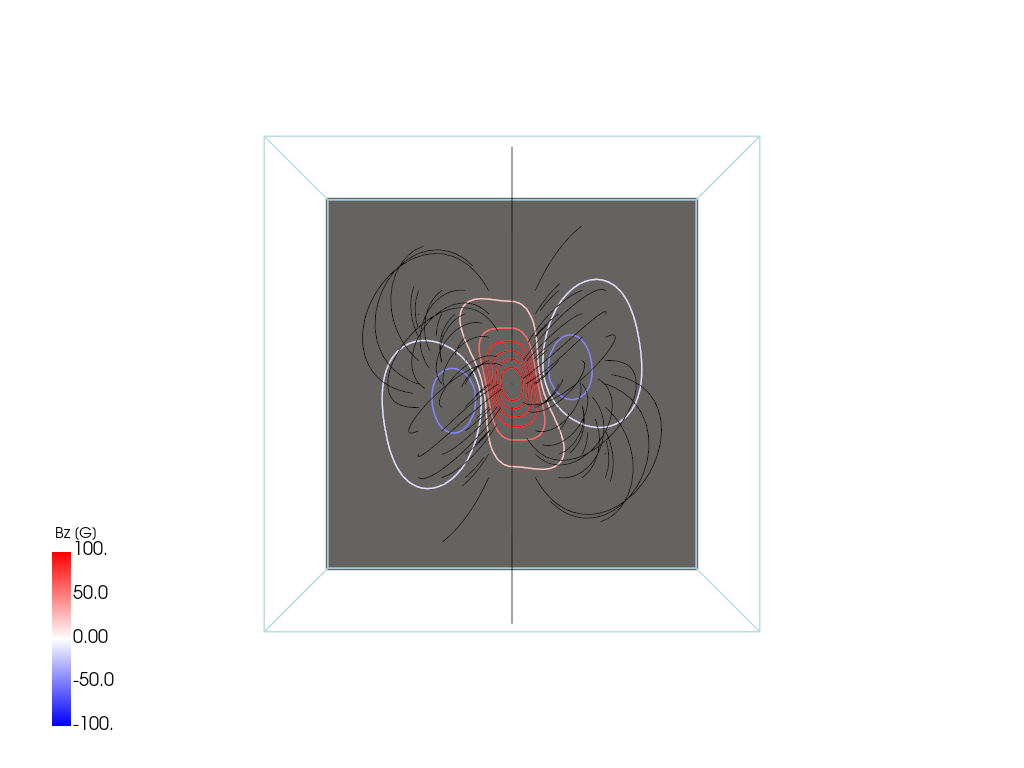
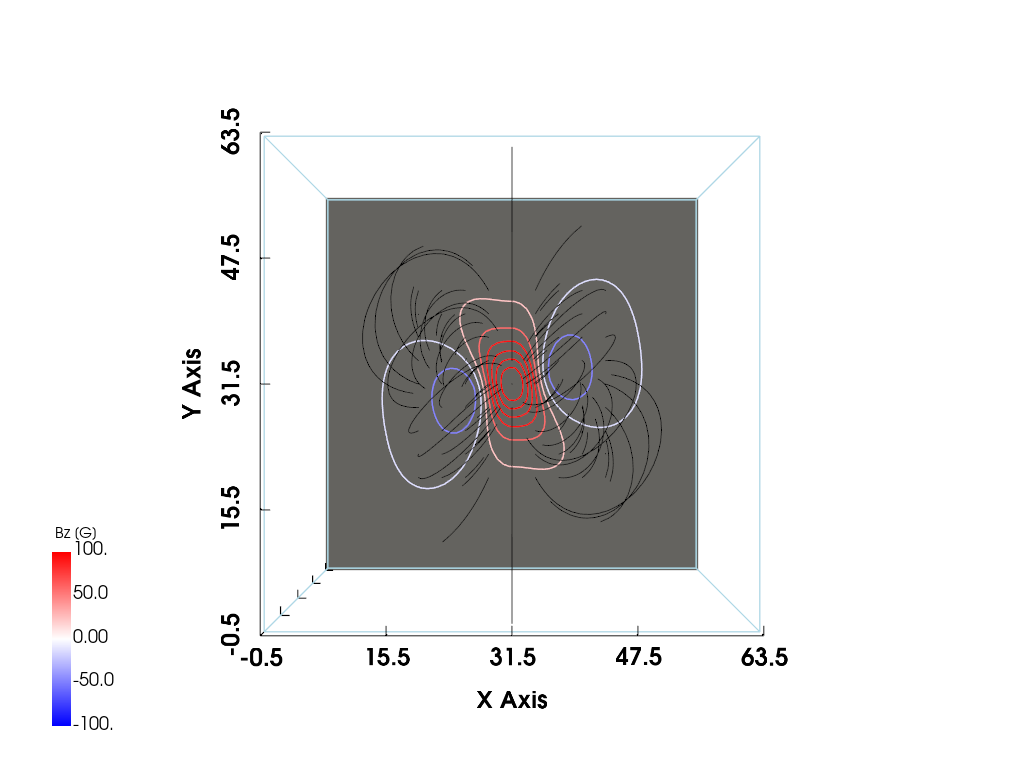
Built site for gh-pages

diff --git a/posts/low_lou_force_free/index.html b/posts/low_lou_force_free/index.html
@@ -433,12 +433,12 @@ P'(-1) = 10
 <div class="sourceCode" id="cb3"><pre class="sourceCode python code-with-copy"><code class="sourceCode python"><span id="cb3-1"><a href="#cb3-1" aria-hidden="true" tabindex="-1"></a>dP_init <span class="op">=</span> <span class="dv">10</span><span class="op">*</span>np.ones_like(mu)</span></code><button title="Copy to Clipboard" class="code-copy-button"><i class="bi"></i></button></pre></div>
 <p>Then, together,</p>
 <div class="sourceCode" id="cb4"><pre class="sourceCode python code-with-copy"><code class="sourceCode python"><span id="cb4-1"><a href="#cb4-1" aria-hidden="true" tabindex="-1"></a>S_init <span class="op">=</span> np.vstack([P_init, dP_init])</span></code><button title="Copy to Clipboard" class="code-copy-button"><i class="bi"></i></button></pre></div>
-<div id="cell-19" class="cell" data-vscode="{&quot;languageId&quot;:&quot;python&quot;}">
+<div id="cell-19" class="cell">
 <div class="sourceCode cell-code" id="cb5"><pre class="sourceCode python code-with-copy"><code class="sourceCode python"><span id="cb5-1"><a href="#cb5-1" aria-hidden="true" tabindex="-1"></a><span class="im">import</span> numpy <span class="im">as</span> np </span>
 <span id="cb5-2"><a href="#cb5-2" aria-hidden="true" tabindex="-1"></a><span class="im">from</span> scipy.integrate <span class="im">import</span> solve_bvp</span>
 <span id="cb5-3"><a href="#cb5-3" aria-hidden="true" tabindex="-1"></a><span class="im">import</span> matplotlib.pyplot <span class="im">as</span> plt </span></code><button title="Copy to Clipboard" class="code-copy-button"><i class="bi"></i></button></pre></div>
 </div>
-<div id="cell-20" class="cell" data-vscode="{&quot;languageId&quot;:&quot;python&quot;}">
+<div id="cell-20" class="cell">
 <div class="sourceCode cell-code" id="cb6"><pre class="sourceCode python code-with-copy"><code class="sourceCode python"><span id="cb6-1"><a href="#cb6-1" aria-hidden="true" tabindex="-1"></a><span class="kw">def</span> find_P_and_a2(n, m):</span>
 <span id="cb6-2"><a href="#cb6-2" aria-hidden="true" tabindex="-1"></a></span>
 <span id="cb6-3"><a href="#cb6-3" aria-hidden="true" tabindex="-1"></a>    <span class="co"># ODE system</span></span>
@@ -511,7 +511,7 @@ P'(-1) = 10
 <span id="cb6-70"><a href="#cb6-70" aria-hidden="true" tabindex="-1"></a>    </span>
 <span id="cb6-71"><a href="#cb6-71" aria-hidden="true" tabindex="-1"></a>    <span class="cf">return</span> sol.sol, sol.p[<span class="dv">0</span>]</span></code><button title="Copy to Clipboard" class="code-copy-button"><i class="bi"></i></button></pre></div>
 </div>
-<div id="cell-21" class="cell" data-vscode="{&quot;languageId&quot;:&quot;python&quot;}">
+<div id="cell-21" class="cell">
 <div class="sourceCode cell-code" id="cb7"><pre class="sourceCode python code-with-copy"><code class="sourceCode python"><span id="cb7-1"><a href="#cb7-1" aria-hidden="true" tabindex="-1"></a>fig, ax <span class="op">=</span> plt.subplots(figsize<span class="op">=</span>(<span class="dv">8</span>, <span class="dv">6</span>))</span>
 <span id="cb7-2"><a href="#cb7-2" aria-hidden="true" tabindex="-1"></a>ax.grid(<span class="va">True</span>)</span>
 <span id="cb7-3"><a href="#cb7-3" aria-hidden="true" tabindex="-1"></a>ax.axhline(<span class="dv">0</span>, color<span class="op">=</span><span class="st">'k'</span>, lw<span class="op">=</span><span class="dv">2</span>)</span>
@@ -623,13 +623,13 @@ Q(A) = \sqrt{a^2 _{n,m}} A^{1 + \frac{1}{n}}
 <p><span class="math display">
 \alpha = \sqrt{a^2 _{n,m}} \left(1 + \frac{1}{n} \right) A^{\frac{1}{n}}
 </span></p>
-<div id="cell-29" class="cell" data-vscode="{&quot;languageId&quot;:&quot;python&quot;}">
+<div id="cell-29" class="cell">
 <div class="sourceCode cell-code" id="cb8"><pre class="sourceCode python code-with-copy"><code class="sourceCode python"><span id="cb8-1"><a href="#cb8-1" aria-hidden="true" tabindex="-1"></a><span class="im">import</span> pyvista <span class="im">as</span> pv</span>
 <span id="cb8-2"><a href="#cb8-2" aria-hidden="true" tabindex="-1"></a>pv.set_jupyter_backend(<span class="st">'static'</span>)</span>
 <span id="cb8-3"><a href="#cb8-3" aria-hidden="true" tabindex="-1"></a>pv.global_theme.notebook <span class="op">=</span> <span class="va">True</span></span>
 <span id="cb8-4"><a href="#cb8-4" aria-hidden="true" tabindex="-1"></a>pv.start_xvfb()</span></code><button title="Copy to Clipboard" class="code-copy-button"><i class="bi"></i></button></pre></div>
 </div>
-<div id="cell-30" class="cell" data-vscode="{&quot;languageId&quot;:&quot;python&quot;}">
+<div id="cell-30" class="cell">
 <div class="sourceCode cell-code" id="cb9"><pre class="sourceCode python code-with-copy"><code class="sourceCode python"><span id="cb9-1"><a href="#cb9-1" aria-hidden="true" tabindex="-1"></a><span class="kw">class</span> LowLouMag:</span>
 <span id="cb9-2"><a href="#cb9-2" aria-hidden="true" tabindex="-1"></a>    <span class="co">"A Low and Lou (1990) NLFFF"</span></span>
 <span id="cb9-3"><a href="#cb9-3" aria-hidden="true" tabindex="-1"></a></span>
@@ -785,7 +785,7 @@ Q(A) = \sqrt{a^2 _{n,m}} A^{1 + \frac{1}{n}}
 <span id="cb9-153"><a href="#cb9-153" aria-hidden="true" tabindex="-1"></a>        bx, by, bz <span class="op">=</span> <span class="va">self</span>.calculate_final_magnetic_fields()</span>
 <span id="cb9-154"><a href="#cb9-154" aria-hidden="true" tabindex="-1"></a>        <span class="cf">return</span> bx, by, bz</span></code><button title="Copy to Clipboard" class="code-copy-button"><i class="bi"></i></button></pre></div>
 </div>
-<div id="cell-31" class="cell" data-vscode="{&quot;languageId&quot;:&quot;python&quot;}">
+<div id="cell-31" class="cell">
 <div class="sourceCode cell-code" id="cb10"><pre class="sourceCode python code-with-copy"><code class="sourceCode python"><span id="cb10-1"><a href="#cb10-1" aria-hidden="true" tabindex="-1"></a>b <span class="op">=</span> LowLouMag()</span>
 <span id="cb10-2"><a href="#cb10-2" aria-hidden="true" tabindex="-1"></a>b</span></code><button title="Copy to Clipboard" class="code-copy-button"><i class="bi"></i></button></pre></div>
 <section id="low-and-lou-1990-nlfff" class="level3 cell-output cell-output-display cell-output-markdown">
@@ -793,7 +793,7 @@ Q(A) = \sqrt{a^2 _{n,m}} A^{1 + \frac{1}{n}}
 <p>bounds = [-1, 1, -1, 1, 0, 2]<br> resolutions = [64, 64, 64]<br> n = 1<br> m = 1<br> l = 0.3<br> Phi = 0.5π<br></p>
 </section>
 </div>
-<div id="cell-32" class="cell" data-vscode="{&quot;languageId&quot;:&quot;python&quot;}">
+<div id="cell-32" class="cell">
 <div class="sourceCode cell-code" id="cb11"><pre class="sourceCode python code-with-copy"><code class="sourceCode python"><span id="cb11-1"><a href="#cb11-1" aria-hidden="true" tabindex="-1"></a>b.create_physical_coordinates()</span></code><button title="Copy to Clipboard" class="code-copy-button"><i class="bi"></i></button></pre></div>
 <div class="cell-output cell-output-display">
 <div>
@@ -844,43 +844,43 @@ Q(A) = \sqrt{a^2 _{n,m}} A^{1 + \frac{1}{n}}
 </div>
 </div>
 </div>
-<div id="cell-33" class="cell" data-vscode="{&quot;languageId&quot;:&quot;python&quot;}">
+<div id="cell-33" class="cell">
 <div class="sourceCode cell-code" id="cb12"><pre class="sourceCode python code-with-copy"><code class="sourceCode python"><span id="cb12-1"><a href="#cb12-1" aria-hidden="true" tabindex="-1"></a>b.calculate_local_Cartesian_coordinates()</span></code><button title="Copy to Clipboard" class="code-copy-button"><i class="bi"></i></button></pre></div>
 </div>
-<div id="cell-34" class="cell" data-vscode="{&quot;languageId&quot;:&quot;python&quot;}">
+<div id="cell-34" class="cell">
 <div class="sourceCode cell-code" id="cb13"><pre class="sourceCode python code-with-copy"><code class="sourceCode python"><span id="cb13-1"><a href="#cb13-1" aria-hidden="true" tabindex="-1"></a>b.grid.x[<span class="dv">0</span>], b.grid.y[<span class="dv">0</span>], b.grid.z[<span class="dv">0</span>]</span></code><button title="Copy to Clipboard" class="code-copy-button"><i class="bi"></i></button></pre></div>
 <div class="cell-output cell-output-display">
 <pre><code>(-1.0, -1.0, 0.0)</code></pre>
 </div>
 </div>
-<div id="cell-35" class="cell" data-vscode="{&quot;languageId&quot;:&quot;python&quot;}">
+<div id="cell-35" class="cell">
 <div class="sourceCode cell-code" id="cb15"><pre class="sourceCode python code-with-copy"><code class="sourceCode python"><span id="cb15-1"><a href="#cb15-1" aria-hidden="true" tabindex="-1"></a>b.X[<span class="dv">0</span>], b.Y[<span class="dv">0</span>], b.Z[<span class="dv">0</span>]</span></code><button title="Copy to Clipboard" class="code-copy-button"><i class="bi"></i></button></pre></div>
 <div class="cell-output cell-output-display">
 <pre><code>(-0.30000000000000004, -1.0, -1.0)</code></pre>
 </div>
 </div>
-<div id="cell-36" class="cell" data-vscode="{&quot;languageId&quot;:&quot;python&quot;}">
+<div id="cell-36" class="cell">
 <div class="sourceCode cell-code" id="cb17"><pre class="sourceCode python code-with-copy"><code class="sourceCode python"><span id="cb17-1"><a href="#cb17-1" aria-hidden="true" tabindex="-1"></a>b.calculate_local_spherical_coordinates()</span></code><button title="Copy to Clipboard" class="code-copy-button"><i class="bi"></i></button></pre></div>
 </div>
-<div id="cell-37" class="cell" data-vscode="{&quot;languageId&quot;:&quot;python&quot;}">
+<div id="cell-37" class="cell">
 <div class="sourceCode cell-code" id="cb18"><pre class="sourceCode python code-with-copy"><code class="sourceCode python"><span id="cb18-1"><a href="#cb18-1" aria-hidden="true" tabindex="-1"></a>b.r[<span class="dv">0</span>], b.theta[<span class="dv">0</span>], b.phi[<span class="dv">0</span>]</span></code><button title="Copy to Clipboard" class="code-copy-button"><i class="bi"></i></button></pre></div>
 <div class="cell-output cell-output-display">
 <pre><code>(1.445683229480096, 2.3346567297775978, -1.8622531212727638)</code></pre>
 </div>
 </div>
-<div id="cell-38" class="cell" data-vscode="{&quot;languageId&quot;:&quot;python&quot;}">
+<div id="cell-38" class="cell">
 <div class="sourceCode cell-code" id="cb20"><pre class="sourceCode python code-with-copy"><code class="sourceCode python"><span id="cb20-1"><a href="#cb20-1" aria-hidden="true" tabindex="-1"></a>b.calculate_eigenfunctions()</span></code><button title="Copy to Clipboard" class="code-copy-button"><i class="bi"></i></button></pre></div>
 </div>
-<div id="cell-39" class="cell" data-vscode="{&quot;languageId&quot;:&quot;python&quot;}">
+<div id="cell-39" class="cell">
 <div class="sourceCode cell-code" id="cb21"><pre class="sourceCode python code-with-copy"><code class="sourceCode python"><span id="cb21-1"><a href="#cb21-1" aria-hidden="true" tabindex="-1"></a>b.P[<span class="dv">0</span>], b.dP[<span class="dv">0</span>], b.a2</span></code><button title="Copy to Clipboard" class="code-copy-button"><i class="bi"></i></button></pre></div>
 <div class="cell-output cell-output-display">
 <pre><code>(2.3671821639686197, 4.145376627987454, 0.4274037235234833)</code></pre>
 </div>
 </div>
-<div id="cell-40" class="cell" data-vscode="{&quot;languageId&quot;:&quot;python&quot;}">
+<div id="cell-40" class="cell">
 <div class="sourceCode cell-code" id="cb23"><pre class="sourceCode python code-with-copy"><code class="sourceCode python"><span id="cb23-1"><a href="#cb23-1" aria-hidden="true" tabindex="-1"></a>b.calculate_local_spherical_magnetic_fields()</span></code><button title="Copy to Clipboard" class="code-copy-button"><i class="bi"></i></button></pre></div>
 </div>
-<div id="cell-41" class="cell" data-vscode="{&quot;languageId&quot;:&quot;python&quot;}">
+<div id="cell-41" class="cell">
 <div class="sourceCode cell-code" id="cb24"><pre class="sourceCode python code-with-copy"><code class="sourceCode python"><span id="cb24-1"><a href="#cb24-1" aria-hidden="true" tabindex="-1"></a>b.Br[<span class="dv">0</span>], b.Btheta[<span class="dv">0</span>], b.Bphi[<span class="dv">0</span>], b.alpha[<span class="dv">0</span>]</span></code><button title="Copy to Clipboard" class="code-copy-button"><i class="bi"></i></button></pre></div>
 <div class="cell-output cell-output-display">
 <pre><code>(-1.3719698429432043,
@@ -889,44 +889,44 @@ Q(A) = \sqrt{a^2 _{n,m}} A^{1 + \frac{1}{n}}
  2.140955710310132)</code></pre>
 </div>
 </div>
-<div id="cell-42" class="cell" data-vscode="{&quot;languageId&quot;:&quot;python&quot;}">
+<div id="cell-42" class="cell">
 <div class="sourceCode cell-code" id="cb26"><pre class="sourceCode python code-with-copy"><code class="sourceCode python"><span id="cb26-1"><a href="#cb26-1" aria-hidden="true" tabindex="-1"></a>b.calculate_local_Cartesian_magnetic_fields()</span></code><button title="Copy to Clipboard" class="code-copy-button"><i class="bi"></i></button></pre></div>
 </div>
-<div id="cell-43" class="cell" data-vscode="{&quot;languageId&quot;:&quot;python&quot;}">
+<div id="cell-43" class="cell">
 <div class="sourceCode cell-code" id="cb27"><pre class="sourceCode python code-with-copy"><code class="sourceCode python"><span id="cb27-1"><a href="#cb27-1" aria-hidden="true" tabindex="-1"></a>b.BX[<span class="dv">0</span>], b.BY[<span class="dv">0</span>], b.BZ[<span class="dv">0</span>]</span></code><button title="Copy to Clipboard" class="code-copy-button"><i class="bi"></i></button></pre></div>
 <div class="cell-output cell-output-display">
 <pre><code>(2.108420021547058, 1.185348144787035, -0.26343650351723624)</code></pre>
 </div>
 </div>
-<div id="cell-44" class="cell" data-vscode="{&quot;languageId&quot;:&quot;python&quot;}">
+<div id="cell-44" class="cell">
 <div class="sourceCode cell-code" id="cb29"><pre class="sourceCode python code-with-copy"><code class="sourceCode python"><span id="cb29-1"><a href="#cb29-1" aria-hidden="true" tabindex="-1"></a>b.calculate_physical_magnetic_fields()</span></code><button title="Copy to Clipboard" class="code-copy-button"><i class="bi"></i></button></pre></div>
 </div>
-<div id="cell-45" class="cell" data-vscode="{&quot;languageId&quot;:&quot;python&quot;}">
+<div id="cell-45" class="cell">
 <div class="sourceCode cell-code" id="cb30"><pre class="sourceCode python code-with-copy"><code class="sourceCode python"><span id="cb30-1"><a href="#cb30-1" aria-hidden="true" tabindex="-1"></a>b.Bx[<span class="dv">0</span>], b.By[<span class="dv">0</span>], b.Bz[<span class="dv">0</span>]</span></code><button title="Copy to Clipboard" class="code-copy-button"><i class="bi"></i></button></pre></div>
 <div class="cell-output cell-output-display">
 <pre><code>(-0.26343650351723613, 1.185348144787035, -2.108420021547058)</code></pre>
 </div>
 </div>
-<div id="cell-46" class="cell" data-vscode="{&quot;languageId&quot;:&quot;python&quot;}">
+<div id="cell-46" class="cell">
 <div class="sourceCode cell-code" id="cb32"><pre class="sourceCode python code-with-copy"><code class="sourceCode python"><span id="cb32-1"><a href="#cb32-1" aria-hidden="true" tabindex="-1"></a>bx, by, bz <span class="op">=</span> b.calculate_final_magnetic_fields()</span></code><button title="Copy to Clipboard" class="code-copy-button"><i class="bi"></i></button></pre></div>
 </div>
-<div id="cell-47" class="cell" data-vscode="{&quot;languageId&quot;:&quot;python&quot;}">
+<div id="cell-47" class="cell">
 <div class="sourceCode cell-code" id="cb33"><pre class="sourceCode python code-with-copy"><code class="sourceCode python"><span id="cb33-1"><a href="#cb33-1" aria-hidden="true" tabindex="-1"></a><span class="op">!</span>pip install <span class="op">-</span>q git<span class="op">+</span>https:<span class="op">//</span>github.com<span class="op">/</span>mgjeon<span class="op">/</span>magnetic_field_line.git</span></code><button title="Copy to Clipboard" class="code-copy-button"><i class="bi"></i></button></pre></div>
 </div>
-<div id="cell-48" class="cell" data-vscode="{&quot;languageId&quot;:&quot;python&quot;}">
+<div id="cell-48" class="cell">
 <div class="sourceCode cell-code" id="cb34"><pre class="sourceCode python code-with-copy"><code class="sourceCode python"><span id="cb34-1"><a href="#cb34-1" aria-hidden="true" tabindex="-1"></a><span class="im">from</span> magplot.base <span class="im">import</span> create_mesh, mag_plotter</span></code><button title="Copy to Clipboard" class="code-copy-button"><i class="bi"></i></button></pre></div>
 </div>
-<div id="cell-49" class="cell" data-vscode="{&quot;languageId&quot;:&quot;python&quot;}">
+<div id="cell-49" class="cell">
 <div class="sourceCode cell-code" id="cb35"><pre class="sourceCode python code-with-copy"><code class="sourceCode python"><span id="cb35-1"><a href="#cb35-1" aria-hidden="true" tabindex="-1"></a>mesh <span class="op">=</span> create_mesh(bx, by, bz)</span></code><button title="Copy to Clipboard" class="code-copy-button"><i class="bi"></i></button></pre></div>
 </div>
-<div id="cell-50" class="cell" data-vscode="{&quot;languageId&quot;:&quot;python&quot;}">
+<div id="cell-50" class="cell">
 <div class="sourceCode cell-code" id="cb36"><pre class="sourceCode python code-with-copy"><code class="sourceCode python"><span id="cb36-1"><a href="#cb36-1" aria-hidden="true" tabindex="-1"></a>b_plot <span class="op">=</span> mag_plotter(mesh)</span>
 <span id="cb36-2"><a href="#cb36-2" aria-hidden="true" tabindex="-1"></a>b_tube, b_bottom, b_dargs <span class="op">=</span> b_plot.create_mesh(i_siz<span class="op">=</span><span class="dv">32</span>, j_siz<span class="op">=</span><span class="dv">32</span>, </span>
 <span id="cb36-3"><a href="#cb36-3" aria-hidden="true" tabindex="-1"></a>                                               i_resolution<span class="op">=</span><span class="dv">8</span>, j_resolution<span class="op">=</span><span class="dv">8</span>, </span>
 <span id="cb36-4"><a href="#cb36-4" aria-hidden="true" tabindex="-1"></a>                                               vmin<span class="op">=-</span><span class="dv">100</span>, vmax<span class="op">=</span><span class="dv">100</span>, </span>
 <span id="cb36-5"><a href="#cb36-5" aria-hidden="true" tabindex="-1"></a>                                               max_time<span class="op">=</span><span class="dv">10000</span>)</span></code><button title="Copy to Clipboard" class="code-copy-button"><i class="bi"></i></button></pre></div>
 </div>
-<div id="cell-51" class="cell" data-vscode="{&quot;languageId&quot;:&quot;python&quot;}">
+<div id="cell-51" class="cell">
 <div class="sourceCode cell-code" id="cb37"><pre class="sourceCode python code-with-copy"><code class="sourceCode python"><span id="cb37-1"><a href="#cb37-1" aria-hidden="true" tabindex="-1"></a>p <span class="op">=</span> pv.Plotter()</span>
 <span id="cb37-2"><a href="#cb37-2" aria-hidden="true" tabindex="-1"></a>p.add_mesh(b_plot.grid.outline())</span>
 <span id="cb37-3"><a href="#cb37-3" aria-hidden="true" tabindex="-1"></a>p.add_mesh(b_bottom, cmap<span class="op">=</span><span class="st">'gray'</span>, <span class="op">**</span>b_dargs)</span>
@@ -942,14 +942,15 @@ Q(A) = \sqrt{a^2 _{n,m}} A^{1 + \frac{1}{n}}
 </div>
 </div>
 </div>
-<div id="cell-52" class="cell" data-vscode="{&quot;languageId&quot;:&quot;python&quot;}">
+<div id="cell-52" class="cell">
 <div class="sourceCode cell-code" id="cb38"><pre class="sourceCode python code-with-copy"><code class="sourceCode python"><span id="cb38-1"><a href="#cb38-1" aria-hidden="true" tabindex="-1"></a>p <span class="op">=</span> pv.Plotter(off_screen<span class="op">=</span><span class="va">False</span>)</span>
 <span id="cb38-2"><a href="#cb38-2" aria-hidden="true" tabindex="-1"></a>p.add_mesh(b_plot.grid.outline())</span>
 <span id="cb38-3"><a href="#cb38-3" aria-hidden="true" tabindex="-1"></a>p.add_mesh(pv.Plane(center<span class="op">=</span>(mesh.center[<span class="dv">0</span>], mesh.center[<span class="dv">1</span>], <span class="op">-</span><span class="dv">1</span>), direction<span class="op">=</span>(<span class="dv">0</span>, <span class="dv">0</span>, <span class="dv">1</span>), i_size<span class="op">=</span><span class="dv">64</span>, j_size<span class="op">=</span><span class="dv">64</span>), color<span class="op">=</span><span class="st">'gray'</span>)</span>
 <span id="cb38-4"><a href="#cb38-4" aria-hidden="true" tabindex="-1"></a>p.add_mesh(b_bottom.contour(scalars<span class="op">=</span>b_bottom[<span class="st">'vector'</span>][:, <span class="dv">2</span>]), cmap<span class="op">=</span><span class="st">'bwr'</span>, <span class="op">**</span>b_dargs)</span>
 <span id="cb38-5"><a href="#cb38-5" aria-hidden="true" tabindex="-1"></a>p.add_mesh(b_tube, lighting<span class="op">=</span><span class="va">False</span>, color<span class="op">=</span><span class="st">'black'</span>)</span>
 <span id="cb38-6"><a href="#cb38-6" aria-hidden="true" tabindex="-1"></a>p.camera_position <span class="op">=</span> <span class="st">'xy'</span></span>
-<span id="cb38-7"><a href="#cb38-7" aria-hidden="true" tabindex="-1"></a>p.show()</span></code><button title="Copy to Clipboard" class="code-copy-button"><i class="bi"></i></button></pre></div>
+<span id="cb38-7"><a href="#cb38-7" aria-hidden="true" tabindex="-1"></a>p.show_bounds()</span>
+<span id="cb38-8"><a href="#cb38-8" aria-hidden="true" tabindex="-1"></a>p.show()</span></code><button title="Copy to Clipboard" class="code-copy-button"><i class="bi"></i></button></pre></div>
 <div class="cell-output cell-output-display">
 <div>
 <figure class="figure">
@@ -959,7 +960,7 @@ Q(A) = \sqrt{a^2 _{n,m}} A^{1 + \frac{1}{n}}
 </div>
 </div>
 <p>It seems to correspond to Figure 8, not Figure 3. I don’t know why.</p>
-<div id="cell-54" class="cell" data-vscode="{&quot;languageId&quot;:&quot;python&quot;}">
+<div id="cell-54" class="cell">
 <div class="sourceCode cell-code" id="cb39"><pre class="sourceCode python code-with-copy"><code class="sourceCode python"><span id="cb39-1"><a href="#cb39-1" aria-hidden="true" tabindex="-1"></a>mesh_new <span class="op">=</span> create_mesh(<span class="op">*</span>LowLouMag(Phi<span class="op">=</span>np.pi<span class="op">/</span><span class="dv">4</span>).calculate()).reflect((<span class="dv">0</span>, <span class="dv">1</span>, <span class="dv">0</span>))</span>
 <span id="cb39-2"><a href="#cb39-2" aria-hidden="true" tabindex="-1"></a></span>
 <span id="cb39-3"><a href="#cb39-3" aria-hidden="true" tabindex="-1"></a>b_plot_new <span class="op">=</span> mag_plotter(mesh_new)</span>
@@ -974,7 +975,8 @@ Q(A) = \sqrt{a^2 _{n,m}} A^{1 + \frac{1}{n}}
 <span id="cb39-12"><a href="#cb39-12" aria-hidden="true" tabindex="-1"></a>p.add_mesh(b_bottom_new.contour(scalars<span class="op">=</span>b_bottom_new[<span class="st">'vector'</span>][:, <span class="dv">2</span>]), cmap<span class="op">=</span><span class="st">'bwr'</span>, <span class="op">**</span>b_dargs_new)</span>
 <span id="cb39-13"><a href="#cb39-13" aria-hidden="true" tabindex="-1"></a>p.add_mesh(b_tube_new, lighting<span class="op">=</span><span class="va">False</span>, color<span class="op">=</span><span class="st">'black'</span>)</span>
 <span id="cb39-14"><a href="#cb39-14" aria-hidden="true" tabindex="-1"></a>p.camera_position <span class="op">=</span> <span class="st">'xy'</span></span>
-<span id="cb39-15"><a href="#cb39-15" aria-hidden="true" tabindex="-1"></a>p.show()</span></code><button title="Copy to Clipboard" class="code-copy-button"><i class="bi"></i></button></pre></div>
+<span id="cb39-15"><a href="#cb39-15" aria-hidden="true" tabindex="-1"></a>p.show_bounds()</span>
+<span id="cb39-16"><a href="#cb39-16" aria-hidden="true" tabindex="-1"></a>p.show()</span></code><button title="Copy to Clipboard" class="code-copy-button"><i class="bi"></i></button></pre></div>
 <div class="cell-output cell-output-display">
 <div>
 <figure class="figure">
@@ -983,7 +985,7 @@ Q(A) = \sqrt{a^2 _{n,m}} A^{1 + \frac{1}{n}}
 </div>
 </div>
 </div>
-<div id="cell-55" class="cell" data-vscode="{&quot;languageId&quot;:&quot;python&quot;}">
+<div id="cell-55" class="cell">
 <div class="sourceCode cell-code" id="cb40"><pre class="sourceCode python code-with-copy"><code class="sourceCode python"><span id="cb40-1"><a href="#cb40-1" aria-hidden="true" tabindex="-1"></a>mesh_new <span class="op">=</span> create_mesh(<span class="op">*</span>LowLouMag(Phi<span class="op">=</span><span class="fl">0.47</span>).calculate()).reflect((<span class="dv">0</span>, <span class="dv">1</span>, <span class="dv">0</span>))</span>
 <span id="cb40-2"><a href="#cb40-2" aria-hidden="true" tabindex="-1"></a></span>
 <span id="cb40-3"><a href="#cb40-3" aria-hidden="true" tabindex="-1"></a>b_plot_new <span class="op">=</span> mag_plotter(mesh_new)</span>
@@ -998,7 +1000,8 @@ Q(A) = \sqrt{a^2 _{n,m}} A^{1 + \frac{1}{n}}
 <span id="cb40-12"><a href="#cb40-12" aria-hidden="true" tabindex="-1"></a>p.add_mesh(b_bottom_new.contour(scalars<span class="op">=</span>b_bottom_new[<span class="st">'vector'</span>][:, <span class="dv">2</span>]), cmap<span class="op">=</span><span class="st">'bwr'</span>, <span class="op">**</span>b_dargs_new)</span>
 <span id="cb40-13"><a href="#cb40-13" aria-hidden="true" tabindex="-1"></a>p.add_mesh(b_tube_new, lighting<span class="op">=</span><span class="va">False</span>, color<span class="op">=</span><span class="st">'black'</span>)</span>
 <span id="cb40-14"><a href="#cb40-14" aria-hidden="true" tabindex="-1"></a>p.camera_position <span class="op">=</span> <span class="st">'xy'</span></span>
-<span id="cb40-15"><a href="#cb40-15" aria-hidden="true" tabindex="-1"></a>p.show()</span></code><button title="Copy to Clipboard" class="code-copy-button"><i class="bi"></i></button></pre></div>
+<span id="cb40-15"><a href="#cb40-15" aria-hidden="true" tabindex="-1"></a>p.show_bounds()</span>
+<span id="cb40-16"><a href="#cb40-16" aria-hidden="true" tabindex="-1"></a>p.show()</span></code><button title="Copy to Clipboard" class="code-copy-button"><i class="bi"></i></button></pre></div>
 <div class="cell-output cell-output-display">
 <div>
 <figure class="figure">
@@ -1007,7 +1010,7 @@ Q(A) = \sqrt{a^2 _{n,m}} A^{1 + \frac{1}{n}}
 </div>
 </div>
 </div>
-<div id="cell-56" class="cell" data-vscode="{&quot;languageId&quot;:&quot;python&quot;}">
+<div id="cell-56" class="cell">
 <div class="sourceCode cell-code" id="cb41"><pre class="sourceCode python code-with-copy"><code class="sourceCode python"><span id="cb41-1"><a href="#cb41-1" aria-hidden="true" tabindex="-1"></a>mesh_new <span class="op">=</span> create_mesh(<span class="op">*</span>LowLouMag(Phi<span class="op">=</span><span class="fl">0.27</span>).calculate()).reflect((<span class="dv">0</span>, <span class="dv">1</span>, <span class="dv">0</span>))</span>
 <span id="cb41-2"><a href="#cb41-2" aria-hidden="true" tabindex="-1"></a></span>
 <span id="cb41-3"><a href="#cb41-3" aria-hidden="true" tabindex="-1"></a>b_plot_new <span class="op">=</span> mag_plotter(mesh_new)</span>
@@ -1022,7 +1025,8 @@ Q(A) = \sqrt{a^2 _{n,m}} A^{1 + \frac{1}{n}}
 <span id="cb41-12"><a href="#cb41-12" aria-hidden="true" tabindex="-1"></a>p.add_mesh(b_bottom_new.contour(scalars<span class="op">=</span>b_bottom_new[<span class="st">'vector'</span>][:, <span class="dv">2</span>]), cmap<span class="op">=</span><span class="st">'bwr'</span>, <span class="op">**</span>b_dargs_new)</span>
 <span id="cb41-13"><a href="#cb41-13" aria-hidden="true" tabindex="-1"></a>p.add_mesh(b_tube_new, lighting<span class="op">=</span><span class="va">False</span>, color<span class="op">=</span><span class="st">'black'</span>)</span>
 <span id="cb41-14"><a href="#cb41-14" aria-hidden="true" tabindex="-1"></a>p.camera_position <span class="op">=</span> <span class="st">'xy'</span></span>
-<span id="cb41-15"><a href="#cb41-15" aria-hidden="true" tabindex="-1"></a>p.show()</span></code><button title="Copy to Clipboard" class="code-copy-button"><i class="bi"></i></button></pre></div>
+<span id="cb41-15"><a href="#cb41-15" aria-hidden="true" tabindex="-1"></a>p.show_bounds()</span>
+<span id="cb41-16"><a href="#cb41-16" aria-hidden="true" tabindex="-1"></a>p.show()</span></code><button title="Copy to Clipboard" class="code-copy-button"><i class="bi"></i></button></pre></div>
 <div class="cell-output cell-output-display">
 <div>
 <figure class="figure">

diff --git a/index.html b/index.html
@@ -214,7 +214,7 @@ window.Quarto = {
 
 <div class="quarto-listing quarto-listing-container-default" id="listing-listing">
 <div class="list quarto-listing-default">
-<div class="quarto-post image-right" data-index="0" data-categories="solar physics,english" data-listing-date-sort="1711724400000" data-listing-file-modified-sort="1711751335631" data-listing-date-modified-sort="NaN" data-listing-reading-time-sort="11" data-listing-word-count-sort="2137">
+<div class="quarto-post image-right" data-index="0" data-categories="solar physics,english" data-listing-date-sort="1711724400000" data-listing-file-modified-sort="1711751484511" data-listing-date-modified-sort="NaN" data-listing-reading-time-sort="11" data-listing-word-count-sort="2137">
 <div class="thumbnail">
 <p><a href="./posts/low_lou_force_free/index.html" class="no-external"></a></p><a href="./posts/low_lou_force_free/index.html" class="no-external">
 <p class="card-img-top"><img src="posts/low_lou_force_free/index_files/figure-html/cell-4-output-1.png"  class="thumbnail-image card-img"/></p>
